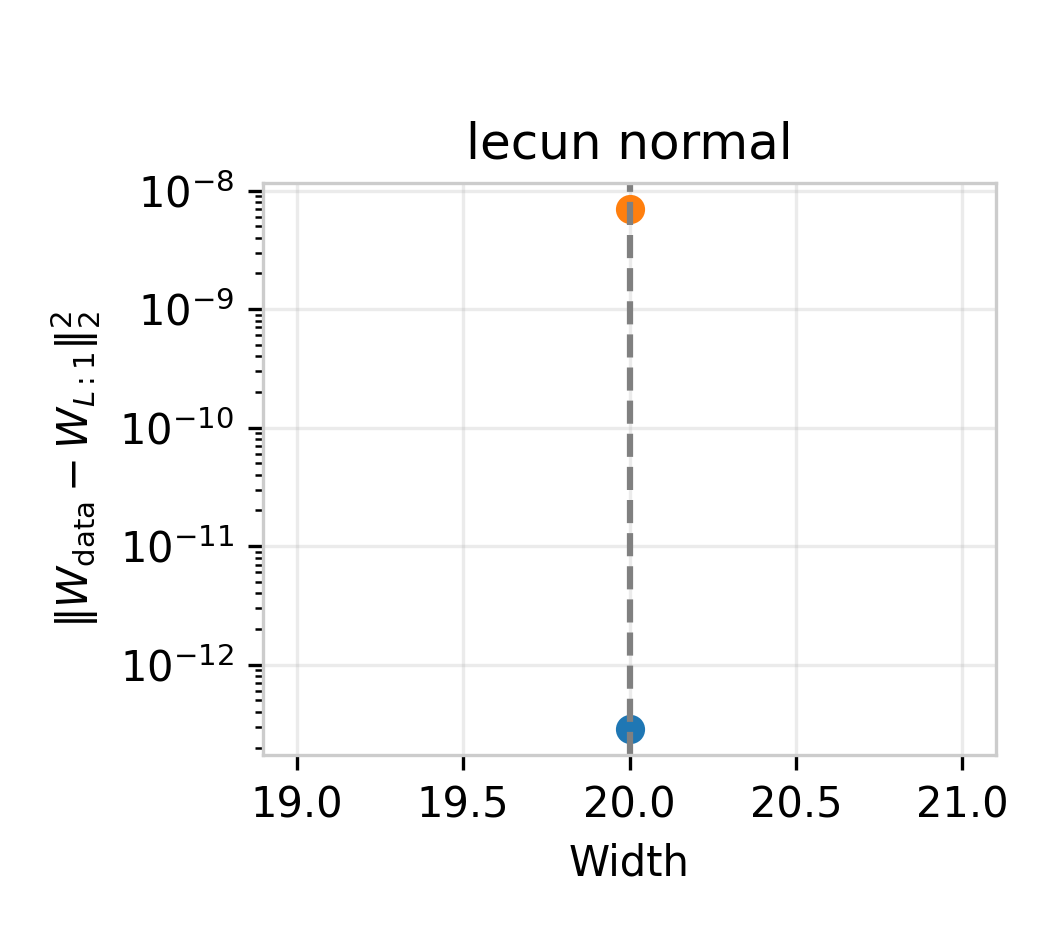
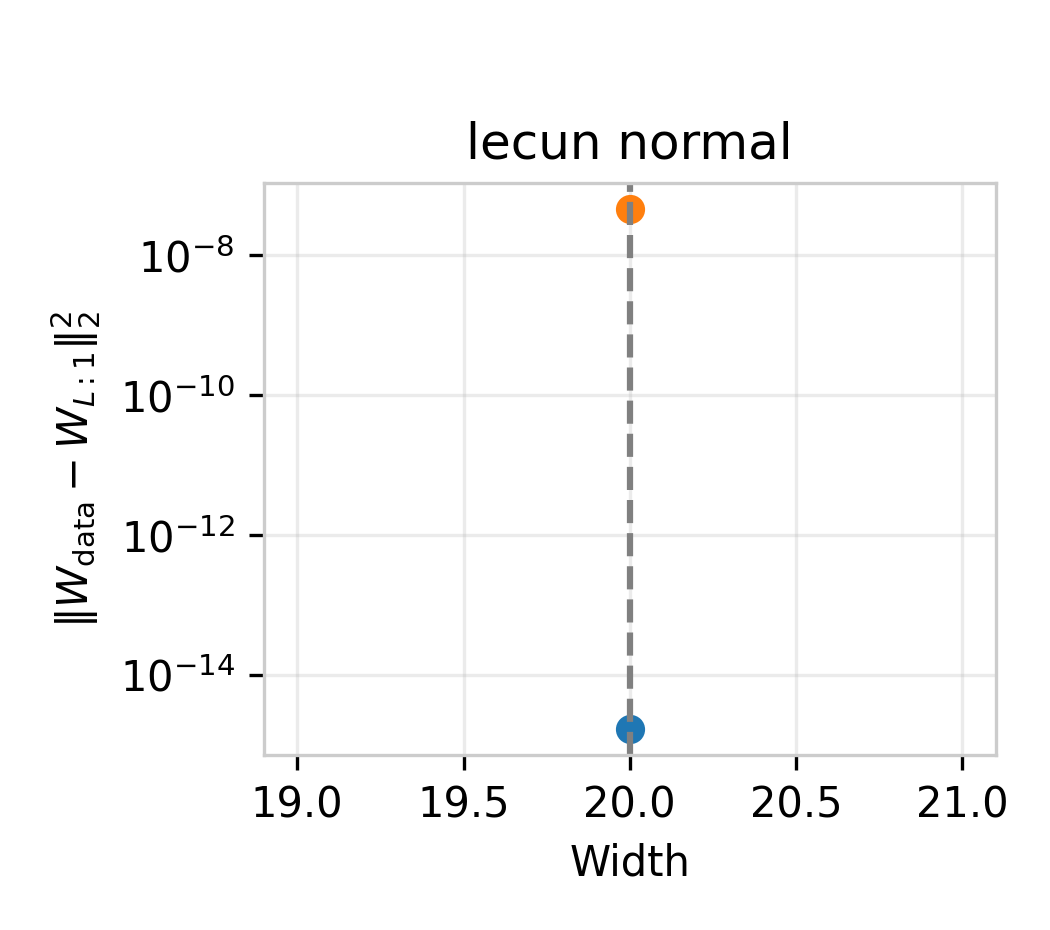
.

diff --git a/Figure2/figure2.py b/Figure2/figure2.py
@@ -340,7 +340,7 @@ import matplotlib.pyplot as plt
 
 
 # ===================== CONFIG =====================
-seeds = [0]#, 1, 2, 3, 4]
+seeds = [0, 1, 2]#, 3, 4]
 numruns = len(seeds)
 
 device = torch.device("cuda" if torch.cuda.is_available() else "cpu")
@@ -549,7 +549,7 @@ for seed in seeds:
 
             # LR grid (base grid; we optionally amplify for some models)
             #lrs = np.linspace(10**(-3.5), 10**(-0.02), 5) #(-2.9, -0.04, 15)  # ~ 1e-4 ... 1.6e-1
-            lrs = np.logspace((-3.5), (-0.02), 20)
+            lrs = np.logspace((-3.5), (-0.02), 80)
 
             # Optional LR scaling knobs (keep if you want)
             amplify_lr_BP_scaled = .2#2       # for "(scaled lr)" variants
